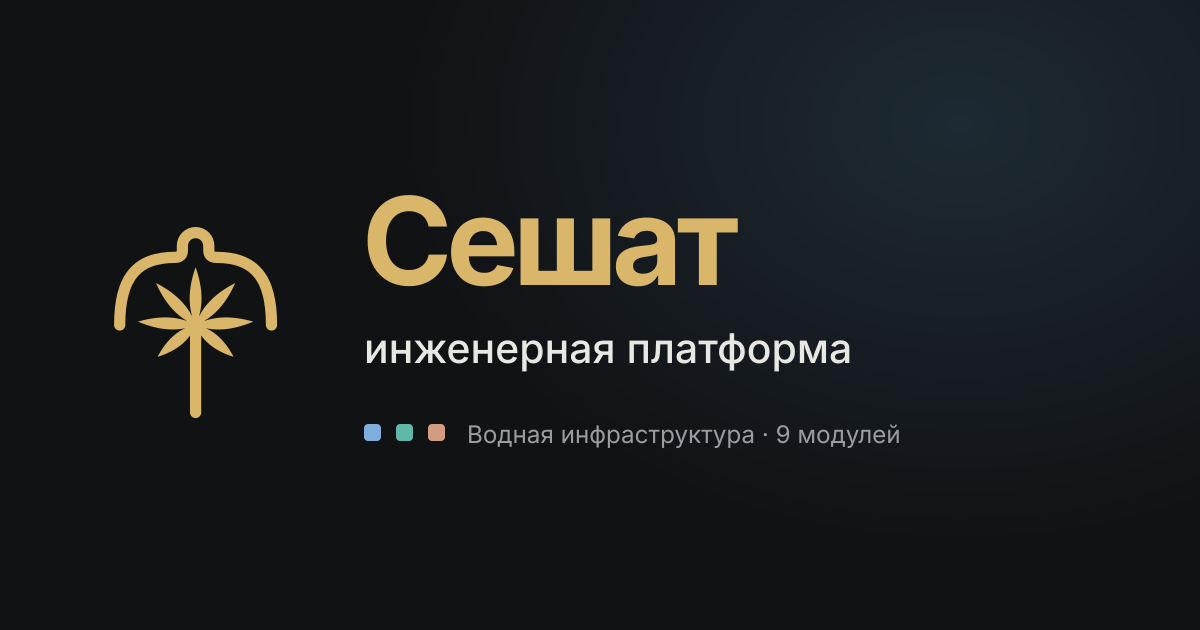
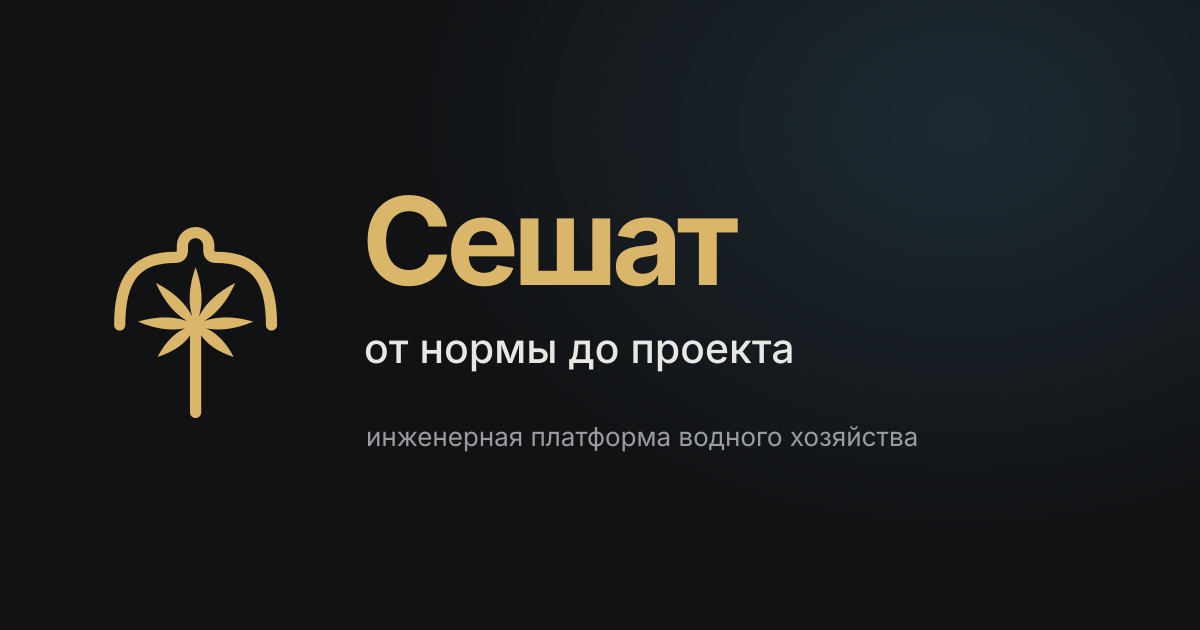
Позиционирование: «инженерная платформа водного хозяйства — от нормы до проекта»
Первым слоем названы расчётные конструкторы, база знаний — опорой под ними;
тема «знание уходит» убрана с витрины. Главная, «О проекте», ответ помощника,
описание сайта, README, ARCHITECTURE; превью без счётчика модулей и цветных меток.

Claude-Session: https://claude.ai/code/session_0135rVwAxdiqNcC64iqYYfY8

Changed region(s): [[0.2775, 0.6635, 0.7708, 0.7238], [0.3083, 0.5127, 0.7092, 0.6032]]

diff --git a/index.html b/index.html
@@ -4,12 +4,12 @@
 <meta charset="utf-8">
 <meta name="viewport" content="width=device-width, initial-scale=1">
 <title>Сешат — инженерная платформа</title>
-<meta name="description" content="Сешат — инженерная платформа водного хозяйства. Водная инфраструктура: модули от гидрологии до очистки сточных вод, база знаний, нормативные документы и помощник Сешат.">
+<meta name="description" content="Сешат — инженерная платформа водного хозяйства: от нормы до проекта. Расчётные конструкторы для водоснабжения и водоотведения на основе сводов правил и справочников НДТ, база знаний, нормативные документы и курсы.">
 <meta property="og:type" content="website">
 <meta property="og:site_name" content="Сешат">
 <meta property="og:locale" content="ru_RU">
 <meta property="og:title" content="Сешат — инженерная платформа">
-<meta property="og:description" content="Сешат — инженерная платформа водного хозяйства. Водная инфраструктура: модули от гидрологии до очистки сточных вод, база знаний, нормативные документы и помощник Сешат.">
+<meta property="og:description" content="Сешат — инженерная платформа водного хозяйства: от нормы до проекта. Расчётные конструкторы для водоснабжения и водоотведения на основе сводов правил и справочников НДТ, база знаний, нормативные документы и курсы.">
 <meta property="og:url" content="https://katsiubalex.github.io/Seshat/">
 <meta property="og:image" content="https://katsiubalex.github.io/Seshat/assets/og.png">
 <meta property="og:image:width" content="1200">
@@ -92,30 +92,31 @@
 <div class="wrap view about-page" id="view-about" hidden>
   <header class="about-head">
     <h1>О проекте</h1>
-    <p class="about-lead">Инженерное знание уходит вместе с людьми, а нужно оно будет всё большему числу людей. Поэтому мы строим живую базу знаний и сообщество, которое передаёт мастерство из рук в руки.</p>
+    <p class="about-lead">«Сешат» — инженерная платформа водного хозяйства: от нормы до проекта. В ней два слоя: рабочие инструменты для проектирования и эксплуатации и открытая база знаний, на которую они опираются.</p>
   </header>
 
   <section class="panel about-block" aria-labelledby="ab-why">
     <h2 id="ab-why">Зачем</h2>
     <ol class="mission">
-      <li><b>Знание уходит.</b> Поколение, которое построило водопровод и канализацию и понимает, как они работают, уходит на пенсию. Молодых в профессии мало, а учебники отстают от практики.</li>
-      <li><b>Нужно оно всё большему числу людей.</b> Сети стареют, рядом с ними появляются локальные системы, требования к очистке растут. Специалистов, которые понимают свою систему, нужно больше, а не меньше.</li>
-      <li><b>Документов мало.</b> Инженерный опыт живёт в людях. Когда цепочка от мастера к ученику обрывается, знание исчезает, даже если чертежи лежат в архиве.</li>
-      <li><b>Что мы делаем.</b> Открытая база знаний с конструкторами, которая быстро вводит в дисциплину и помогает разобраться на месте. И сообщество специалистов, которое её проверяет, развивает и передаёт то, что в статью не запишешь. <a href="#contribute" data-go="contribute">Как участвовать →</a></li>
+      <li><b>Нормы разбросаны и меняются.</b> Своды правил, справочники НДТ, изменения к ним и постановления Правительства приходится сводить вручную и следить, какая редакция действует.</li>
+      <li><b>Расчёт трудно проверить.</b> В таблицах и программах не видно, откуда взялось число: какая формула, какой пункт нормы, какое допущение.</li>
+      <li><b>Оборудование и стоимость — по разрозненным источникам.</b> Каталоги производителей, сборники укрупнённых нормативов цены и справочники существуют отдельно друг от друга.</li>
+      <li><b>Специалистов не хватает.</b> Путь в профессию долгий, а учебники отстают от действующих норм и практики.</li>
+      <li><b>Что мы делаем.</b> Расчётные конструкторы по дисциплинам водного хозяйства на основе сводов правил и справочников НДТ. В конструкторе водоотводящих сетей каждый шаг расчёта раскрывается до формулы, подстановки и пункта нормы; остальные конструкторы переводятся на этот формат. Под инструментами — открытая база знаний, нормативные документы и курсы, которые проверяет сообщество специалистов. В разработке — каталоги оборудования производителей, составление проектной документации и проверка соответствия законодательству. <a href="#contribute" data-go="contribute">Как участвовать →</a></li>
     </ol>
   </section>
 
   <section class="panel about-block" aria-labelledby="ab-what">
     <h2 id="ab-what">Что такое «Сешат»</h2>
-    <p>«Сешат» — инженерная платформа водного хозяйства: база знаний, курсы и расчётные инструменты на одном движке. Платформа состоит из модулей, каждый посвящён одной дисциплине. Первый кластер — «Водная инфраструктура», девять модулей по пути воды: от гидрологии до очистки сточных вод. Общая опора для всех — «Основы»: фундаментальные дисциплины, основы водоснабжения и водоотведения и гуманитарные аспекты. Рядом — смежные области: экономика, децентрализованные системы, охрана труда, цифровые инструменты, строительство, защита атмосферы и почв. Первый готовый модуль — «Очистка сточных вод» с конструктором схем очистки; остальные в разработке.</p>
+    <p>«Сешат» — инженерная платформа водного хозяйства: расчётные инструменты, база знаний и курсы на одном движке. Платформа состоит из модулей, каждый посвящён одной дисциплине. Первый кластер — «Водная инфраструктура», девять модулей по пути воды: от гидрологии до очистки сточных вод. Общая опора для всех — «Основы»: фундаментальные дисциплины, основы водоснабжения и водоотведения и гуманитарные аспекты. Рядом — смежные области: экономика, децентрализованные системы, охрана труда, цифровые инструменты, строительство, защита атмосферы и почв. Конструкторы работают в модулях «Очистка сточных вод» (схемы очистки из технологий НДТ), «Очистка природных вод» (водоподготовка по СП 31), «Сети водоснабжения» (увязка колец, напоры, пожар и аварии) и «Водоотводящие сети» (самотёчная сеть по СП 32 со стоимостью по НЦС); остальные модули в разработке.</p>
   </section>
 
   <section class="panel about-block" aria-labelledby="ab-who">
     <h2 id="ab-who">Для кого</h2>
     <ul class="about-list">
+      <li><b>Проектировщики и инженеры водоканалов</b> — чтобы быстро собрать и сравнить варианты схем и сетей, проверить расчёт по нормам и найти нужный пункт нормативного документа.</li>
       <li><b>Студенты</b> направлений «Водоснабжение и водоотведение», «Экология и природопользование», «Техносферная безопасность» — чтобы увидеть на практике то, что изучают в курсе очистки сточных вод.</li>
       <li><b>Преподаватели</b> — чтобы показывать на занятиях, как меняется вода от ступени к ступени и как выбор технологии отражается на затратах.</li>
-      <li><b>Начинающие инженеры</b> — чтобы быстро прикинуть варианты схем и понять, какие вопросы задавать при проектировании.</li>
     </ul>
   </section>
 

diff --git a/js/oracle.js b/js/oracle.js
@@ -200,7 +200,7 @@
   const open = (page, hash, label) => ({ type: 'url', page, hash, label });
   const modOpt = m => ({ id: 'mod:' + m.id, label: `${m.n} — ${lc(m.d)}` });
   function eco() {
-    return { text: `Сешат — инженерная платформа водного хозяйства: база знаний, курсы и расчётные инструменты на одном движке. Сейчас в ней кластер «Водная инфраструктура»: модули, которые вместе проходят весь путь воды: ${PATH.map(id => MOD[id].n).join(' → ')}. Каждый модуль — отдельная дисциплина со своей базой знаний, курсами и конструктором; сейчас готов модуль «Очистка сточных вод», остальные в разработке. Общие для всех модулей разделы — фундаментальные дисциплины, гуманитарные аспекты, журналы, сообщества и нормативные документы.`,
+    return { text: `Сешат — инженерная платформа водного хозяйства: от нормы до проекта. Рабочий слой — расчётные конструкторы на основе сводов правил и справочников НДТ, под ними — база знаний, нормативные документы и курсы. Сейчас в ней кластер «Водная инфраструктура»: модули, которые вместе проходят весь путь воды: ${PATH.map(id => MOD[id].n).join(' → ')}. Каждый модуль — отдельная дисциплина со своим конструктором, базой знаний и курсами; конструкторы работают в модулях «Очистка сточных вод», «Очистка природных вод», «Сети водоснабжения» и «Водоотводящие сети», остальные в разработке. В планах — каталоги оборудования производителей и проектная документация. Общие для всех модулей разделы — фундаментальные дисциплины, гуманитарные аспекты, журналы, сообщества и нормативные документы.`,
       options: [{ id: 'start', label: 'С чего начать?' }, { id: 'modules', label: 'Какие есть модули?' }, back], action: { type: 'link', view: 'home', label: 'Открыть водный цикл модулей' } };
   }
   function start(ctx) {

diff --git a/js/hub.js b/js/hub.js
@@ -27,8 +27,8 @@ function renderHome() {
   document.getElementById('home-root').innerHTML = `
     <header class="home-head">
       <h1>Сешат</h1>
-      <p class="home-mission">Инженерное знание уходит вместе с людьми. Мы сохраняем его и передаём дальше.</p>
-      <p class="home-lead">Открытая инженерная платформа водного хозяйства: каждый модуль — отдельная дисциплина со своей базой знаний, курсами и расчётным конструктором. <a class="home-why" href="#about" data-go="about">Зачем это →</a></p>
+      <p class="home-mission">Инженерная платформа водного хозяйства —<br>от нормы до проекта</p>
+      <p class="home-lead">Конструкторы для инженеров водоснабжения и водоотведения: схемы очистки, водоподготовка, расчёт сетей и их стоимость. Расчёты опираются на своды правил и справочники НДТ, а их логику можно открыть: откуда взялось каждое число. Под инструментами — база знаний, нормативные документы и курсы. <a class="home-why" href="#about" data-go="about">Зачем это →</a></p>
       <div class="home-actions">${ready.map(m => `<a class="btn primary" href="${m.path}">Открыть «${esc(m.n)}»</a>`).join('')}<a class="btn" href="#seshat" data-go="seshat">Спросить Сешат</a></div>
     </header>
     <section class="cycle-wrap" aria-labelledby="cluster-water">

diff --git a/css/style.css b/css/style.css
@@ -453,6 +453,7 @@ a.btn:focus-visible{outline:2px solid var(--accent);outline-offset:2px}
 .mission li{counter-increment:ms;display:flex;flex-direction:column;gap:6px;padding:14px;border:1px solid var(--line);border-radius:8px;background:var(--surface2);font-size:15px;line-height:1.55}
 .mission li::before{content:counter(ms,decimal-leading-zero);font-family:var(--f-mono);font-size:12px;font-weight:600;color:var(--muted)}
 .mission li:last-child{border-color:var(--accent)}
+.mission li:last-child:nth-child(odd){grid-column:1/-1}
 .mission b{font-size:16px}
 @media (max-width:760px){.mission{grid-template-columns:minmax(0,1fr)}}
 .contacts{gap:12px;border-color:var(--accent)}

diff --git a/CHANGELOG.md b/CHANGELOG.md
@@ -3,8 +3,13 @@
 Формат: версия — дата — что изменилось. Версии до 0.21 не фиксировались в истории коммитов и восстановлены по смыслу. Правила номеров — в [AGENTS.md](AGENTS.md) п. 22. Начиная с 0.54.0 каждая версия получает тег `vX.Y.Z`.
 
 ## 0.53.2 — 16.11.2026
-- Картинка превью ссылки (`assets/og.png`): подпись «образовательная экосистема» заменена на «инженерная платформа»;
-  число модулей кластера «Водная инфраструктура» — 9 вместо 8 (с модулем «Водоотводящие сети»).
+- Позиционирование: «Сешат» — инженерная платформа водного хозяйства, «от нормы до проекта». Первым слоем
+  названы расчётные конструкторы, база знаний — опорой под ними. Обновлены главная (строка под названием и вводный абзац),
+  «О проекте» (вводный абзац, блок «Зачем» — проблемы отрасли и что уже работает, что в разработке; «Что такое Сешат»;
+  «Для кого» — первыми проектировщики и инженеры водоканалов), ответ помощника «Что такое Сешат?», описание сайта для поиска
+  и превью, README и ARCHITECTURE.
+- Картинка превью ссылки (`assets/og.png`): «Сешат», слоган «от нормы до проекта» и «инженерная платформа водного хозяйства»
+  вместо «образовательная экосистема»; убраны счётчик модулей и цветные метки без подписей.
 
 ## 0.53.1 — 14.11.2026
 - Реестр документов: СП 399.1325800.2018 (гидравлика полимерных труб), СП 131.13330.2025 (климатология),

diff --git a/README.md b/README.md
@@ -2,7 +2,7 @@
 
 > **Разработчикам и агентам:** [ARCHITECTURE.md](ARCHITECTURE.md) — устройство и карта файлов · [AGENTS.md](AGENTS.md) — обязательные правила разработки · [ROADMAP.md](ROADMAP.md) — этапы и критерии перехода · [CHANGELOG.md](CHANGELOG.md) — что нового · [docs/decisions/](docs/decisions/) — принятые решения. Контент: [CONTRIBUTING.md](CONTRIBUTING.md).
 
-Инженерная платформа водного хозяйства: база знаний, курсы и расчётные инструменты на одном движке.
+Инженерная платформа водного хозяйства — от нормы до проекта: расчётные инструменты, база знаний и курсы на одном движке.
 Модули называются по своему предмету и выстроены по пути воды:
 Гидрология → Водные ресурсы → Гидротехника → Водозаборные сооружения → Очистка природных вод →
 Сети водоснабжения → Внутренние системы → Водоотводящие сети →

diff --git a/ARCHITECTURE.md b/ARCHITECTURE.md
@@ -7,7 +7,7 @@
 
 ## 1. Что это
 
-«Сешат» — инженерная платформа водного хозяйства (ВКХ): база знаний + расчётные конструкторы + курсы на одном движке.
+«Сешат» — инженерная платформа водного хозяйства (ВКХ): расчётные конструкторы + база знаний + курсы на одном движке.
 Два слоя: **открытый** (всё, что есть сейчас: статично, бесплатно, CC BY-SA) и **профессиональный** (в плане: сервер, аккаунты, каталог изделий, генератор документации, комплаенс).
 
 Четыре инварианта, которые архитектура обязана поддерживать:
